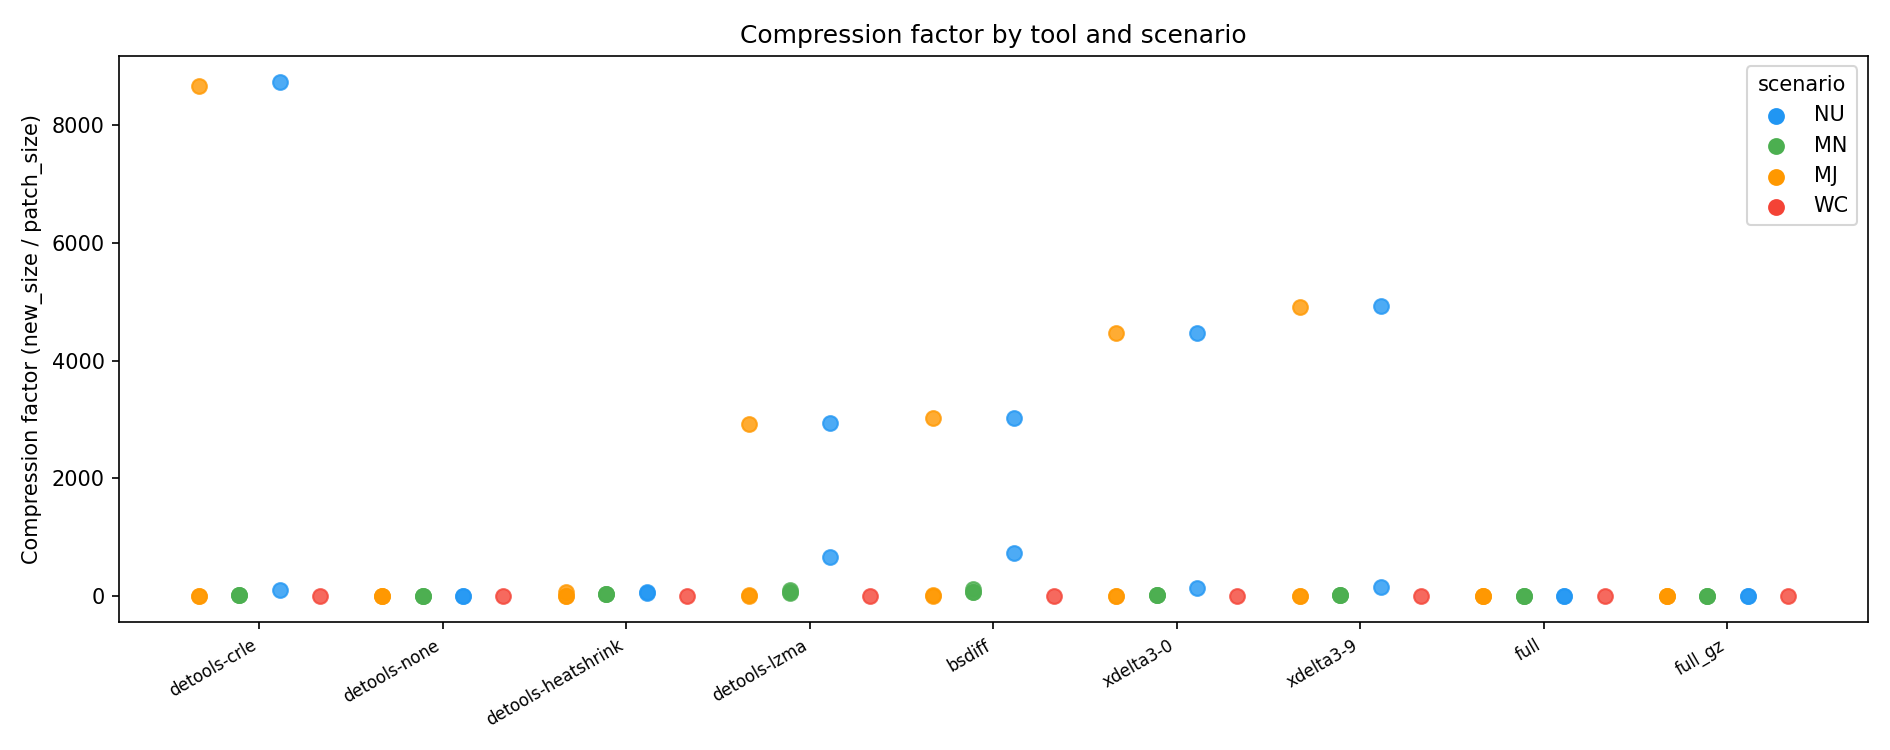
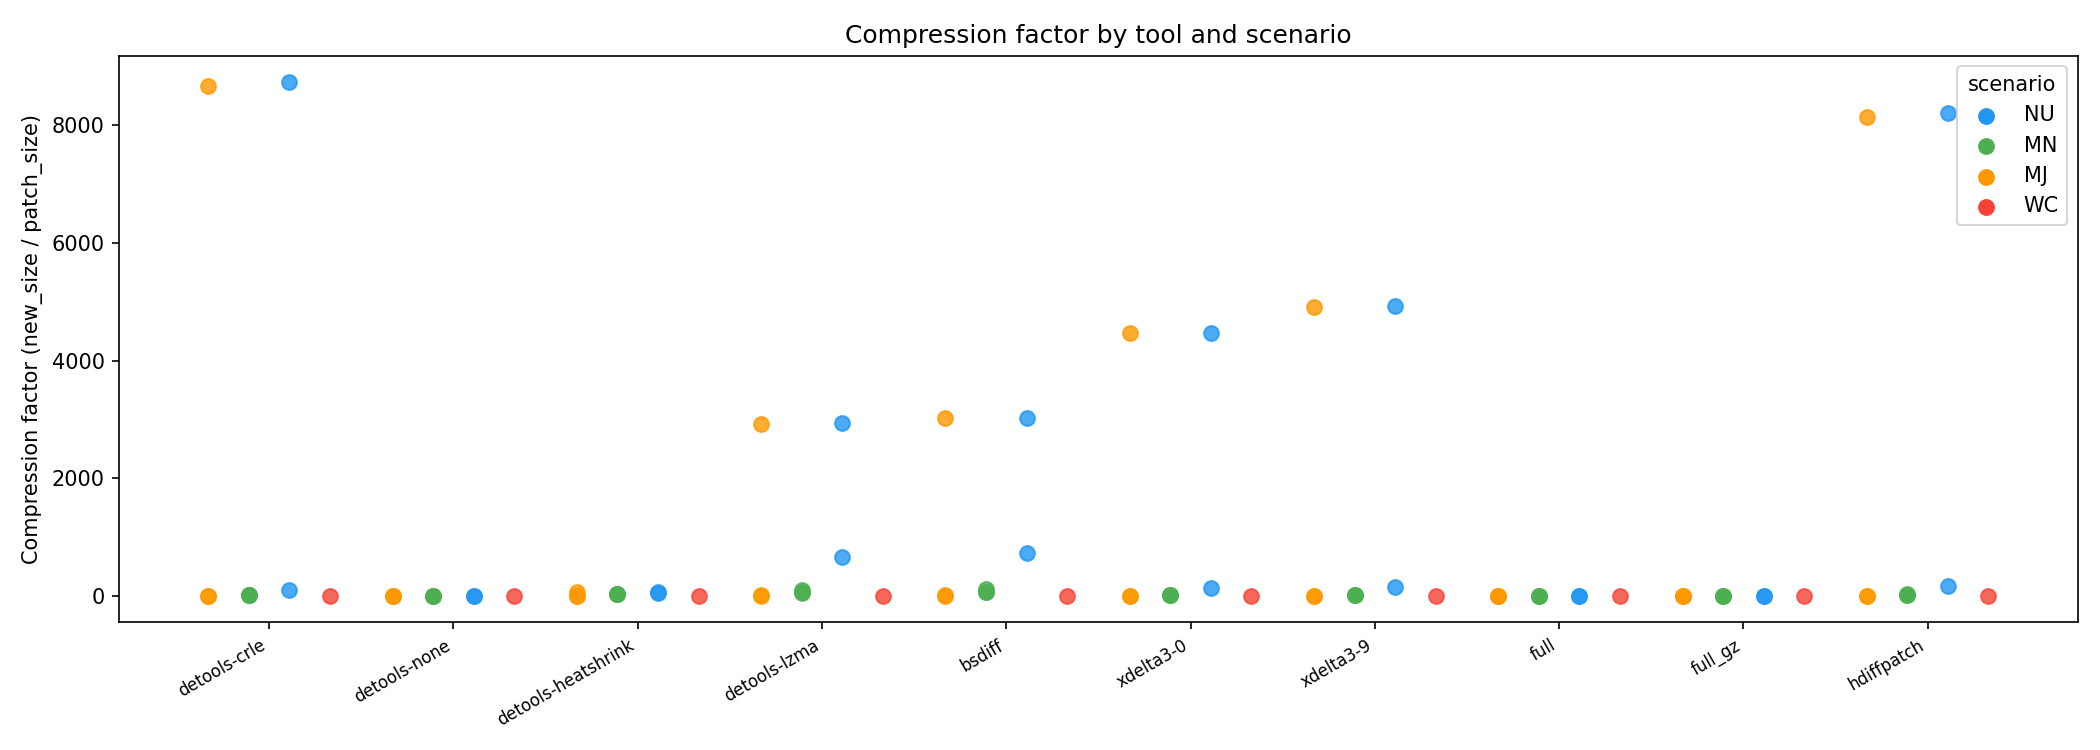
stage1: add hdiffpatch results (v4.12.2), update report and plots

diff --git a/tools/bench_diff.py b/tools/bench_diff.py
@@ -62,8 +62,8 @@ TOOL_DEFS = {
         "note":   "classic bsdiff 4.3 (bzip2-internal)",
     },
     "hdiffpatch": {
-        "create": ["hdiffz",  "{old}", "{new}", "{patch}"],
-        "apply":  ["hpatchz", "{old}", "{patch}", "{out}"],
+        "create": ["hdiffz",  "-f", "{old}", "{new}", "{patch}"],
+        "apply":  ["hpatchz", "-f", "{old}", "{patch}", "{out}"],
         "ver":    ["hdiffz",  "--version"],
         "note":   "HDiffPatch default settings",
     },

diff --git a/results/stage1/REPORT_stage1.md b/results/stage1/REPORT_stage1.md
@@ -87,7 +87,7 @@ All 9 pairs are base → variant (no chained updates). Pairs were registered in 
 | `full` | — | n/a | Full-image OTA baseline (patch_size = new_size). |
 | `full_gz` | `gzip` | system | Full image gzip-9 compressed. Trivial alternative to deltas. |
 
-> **hdiffpatch** (tag `hdiffpatch`): binary `hdiffz`/`hpatchz` — rows omitted from this run because hdiffpatch requires source compilation (not in Ubuntu apt) and was not yet available at run time. To append hdiffpatch rows: install hdiffpatch, then run `python tools/bench_diff.py run --tools hdiffpatch --reps 5`. All other rows remain valid.
+| `hdiffpatch` | `hdiffz`/`hpatchz` | v4.12.2 | HDiffPatch default settings. Built from source (not in Ubuntu apt): `make LZMA=0 ZSTD=0 LDEF=0 ZLIB=2 BSD=0`. See `tools/README.md` for the full build recipe. |
 
 ---
 
@@ -344,13 +344,9 @@ The corrected `bench_diff.py` is committed to `feat/runtim-mesurments`.
 
 ---
 
-## 11. Pending
+## 11. Notes
 
-- **hdiffpatch rows** — HDiffPatch (`hdiffz`/`hpatchz`) must be compiled from source on Ubuntu (not in apt). Once installed, run:
-  ```bash
-  python tools/bench_diff.py run --corpus corpus/bins/ --out results/stage1/ --tools hdiffpatch --reps 5
-  ```
-  Then regenerate tables and plots. Existing rows are not re-run (append mode).
+- **hdiffpatch build quirk** — HDiffPatch's Makefile expects lzma/bzip2 sources as sibling directories outside the repo. On Ubuntu, work around this by disabling the source-compiled deps and using system libraries: `make LZMA=0 ZSTD=0 LDEF=0 ZLIB=2 BSD=0` after installing `libbz2-dev`. This produces a fully functional `hdiffz`/`hpatchz` with zlib and bzip2 compression support (lzma and zstd disabled). Full steps in `tools/README.md`.
 
 ---
 

diff --git a/results/stage1/summary.md b/results/stage1/summary.md
@@ -11,6 +11,7 @@
 | xdelta3-9            | 1639.965 ± 2830.166 |     21.454 ± 4.043 | 2545.384 ± 3377.149 |        2.541 ± 0.0 |
 | full                 |          1.0 ± 0.0 |          1.0 ± 0.0 |          1.0 ± 0.0 |          1.0 ± 0.0 |
 | full_gz              |      1.577 ± 0.023 |        1.562 ± 0.0 |        1.562 ± 0.0 |        1.473 ± 0.0 |
+| hdiffpatch           | 2716.207 ± 4695.396 |     22.869 ± 5.014 | 4187.958 ± 5685.393 |        1.992 ± 0.0 |
 
 ## Reduction %  — mean ± std  (100 × (1 − patch/new))
 
@@ -25,3 +26,4 @@
 | xdelta3-9            |     88.757 ± 9.806 |     95.237 ± 0.812 |      99.67 ± 0.438 |        60.64 ± 0.0 |
 | full                 |          0.0 ± 0.0 |          0.0 ± 0.0 |          0.0 ± 0.0 |          0.0 ± 0.0 |
 | full_gz              |      36.59 ± 0.914 |        35.97 ± 0.0 |        35.97 ± 0.0 |        32.12 ± 0.0 |
+| hdiffpatch           |    87.047 ± 11.739 |       95.5 ± 0.901 |     99.695 ± 0.417 |        49.79 ± 0.0 |

diff --git a/tools/README.md b/tools/README.md
@@ -135,9 +135,13 @@ pip install detools>=0.52 cryptography>=41.0
 apt-get install -y bsdiff xdelta3
 
 # hdiffpatch is NOT in Ubuntu apt — build from source (~2 min):
-cd /tmp && git clone --depth=1 https://github.com/sisong/HDiffPatch.git hdiffpatch_src \
-  && cd hdiffpatch_src && make -j$(nproc) hdiffz hpatchz \
-  && cp hdiffz hpatchz /usr/local/bin/
+# The Makefile references ../lzma and ../bzip2 as sibling dirs; disable them
+# and use system libs instead (LZMA=0 ZSTD=0 LDEF=0 ZLIB=2 with libbz2-dev installed).
+apt-get install -y libbz2-dev libzstd-dev
+cd /tmp && git clone --depth=1 https://github.com/sisong/HDiffPatch.git hdiffpatch_src
+cd /tmp/hdiffpatch_src
+make hdiffz hpatchz LZMA=0 ZSTD=0 LDEF=0 ZLIB=2 MD5=0 XXH=0 VCD=0 DIR_DIFF=0 MT=0 BSD=0
+cp hdiffz hpatchz /usr/local/bin/
 
 pip install detools>=0.52 cryptography>=41.0 matplotlib numpy pandas
 ```
